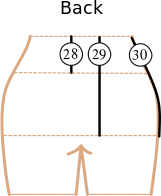
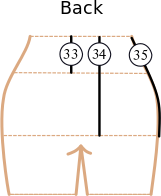
Updated diagrams.
--HG--
branch : develop

diff --git a/src/app/tape/dialogs/dialogmdatabase.cpp b/src/app/tape/dialogs/dialogmdatabase.cpp
@@ -414,6 +414,8 @@ QString DialogMDataBase::MapDiagrams(const QString &number) const
         case 18: // A19
             V_FALLTHROUGH
         case 19: // A20
+            V_FALLTHROUGH
+        case 20: // A21
             return QString("Ap2");
         default:
             break;
@@ -576,13 +578,13 @@ QString DialogMDataBase::MapDiagrams(const QString &number) const
         case 12: // E13
             V_FALLTHROUGH
         case 13: // E14
-            return QString("Ep5");
+            V_FALLTHROUGH
         case 14: // E15
             V_FALLTHROUGH
         case 15: // E16
-            V_FALLTHROUGH
+            return QString("Ep5");
         case 16: // E17
-            return QString("Ep6");
+            V_FALLTHROUGH
         case 17: // E18
             V_FALLTHROUGH
         case 18: // E19
@@ -590,39 +592,45 @@ QString DialogMDataBase::MapDiagrams(const QString &number) const
         case 19: // E20
             V_FALLTHROUGH
         case 20: // E21
-            return QString("Ep7");
+            return QString("Ep6");
         case 21: // E22
             V_FALLTHROUGH
         case 22: // E23
             V_FALLTHROUGH
         case 23: // E24
-            return QString("Ep8");
-        case 24: // E25
             V_FALLTHROUGH
+        case 24: // E25
+            return QString("Ep7");
         case 25: // E26
             V_FALLTHROUGH
         case 26: // E27
-            return QString("Ep9");
+            V_FALLTHROUGH
         case 27: // E28
             V_FALLTHROUGH
         case 28: // E29
-            V_FALLTHROUGH
+            return QString("Ep8");
         case 29: // E30
-            return QString("Ep10");
+            V_FALLTHROUGH
         case 30: // E31
             V_FALLTHROUGH
         case 31: // E32
-            V_FALLTHROUGH
+            return QString("Ep9");
         case 32: // E33
             V_FALLTHROUGH
         case 33: // E34
-            return QString("Ep11");
+            V_FALLTHROUGH
         case 34: // E35
-            return QString("Ep12");
+            return QString("Ep10");
         case 35: // E36
-            return QString("Ep13");
+            V_FALLTHROUGH
         case 36: // E37
-            return QString("Ep14");
+            V_FALLTHROUGH
+        case 37: // E38
+            V_FALLTHROUGH
+        case 38: // E39
+            return QString("Ep11");
+        case 39: // E40
+            return QString("Ep12");
         default:
             break;
     }
@@ -712,6 +720,8 @@ QString DialogMDataBase::MapDiagrams(const QString &number) const
             return QString("Hp9");
         case 11: // H12
             return QString("Hp10");
+        case 12: // H13
+            return QString("Hp11");
         default:
             break;
     }
